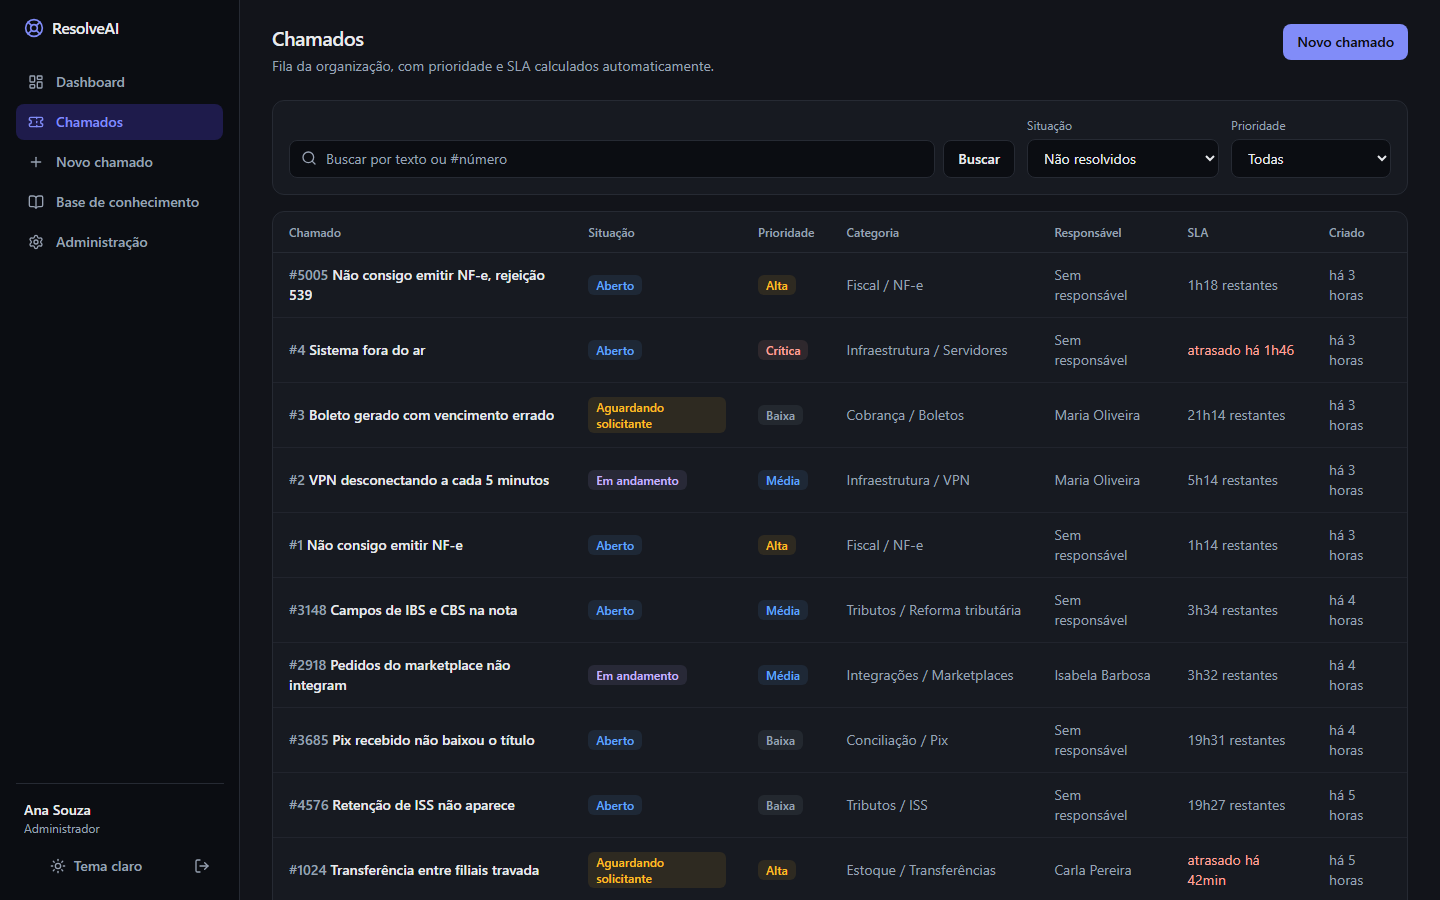
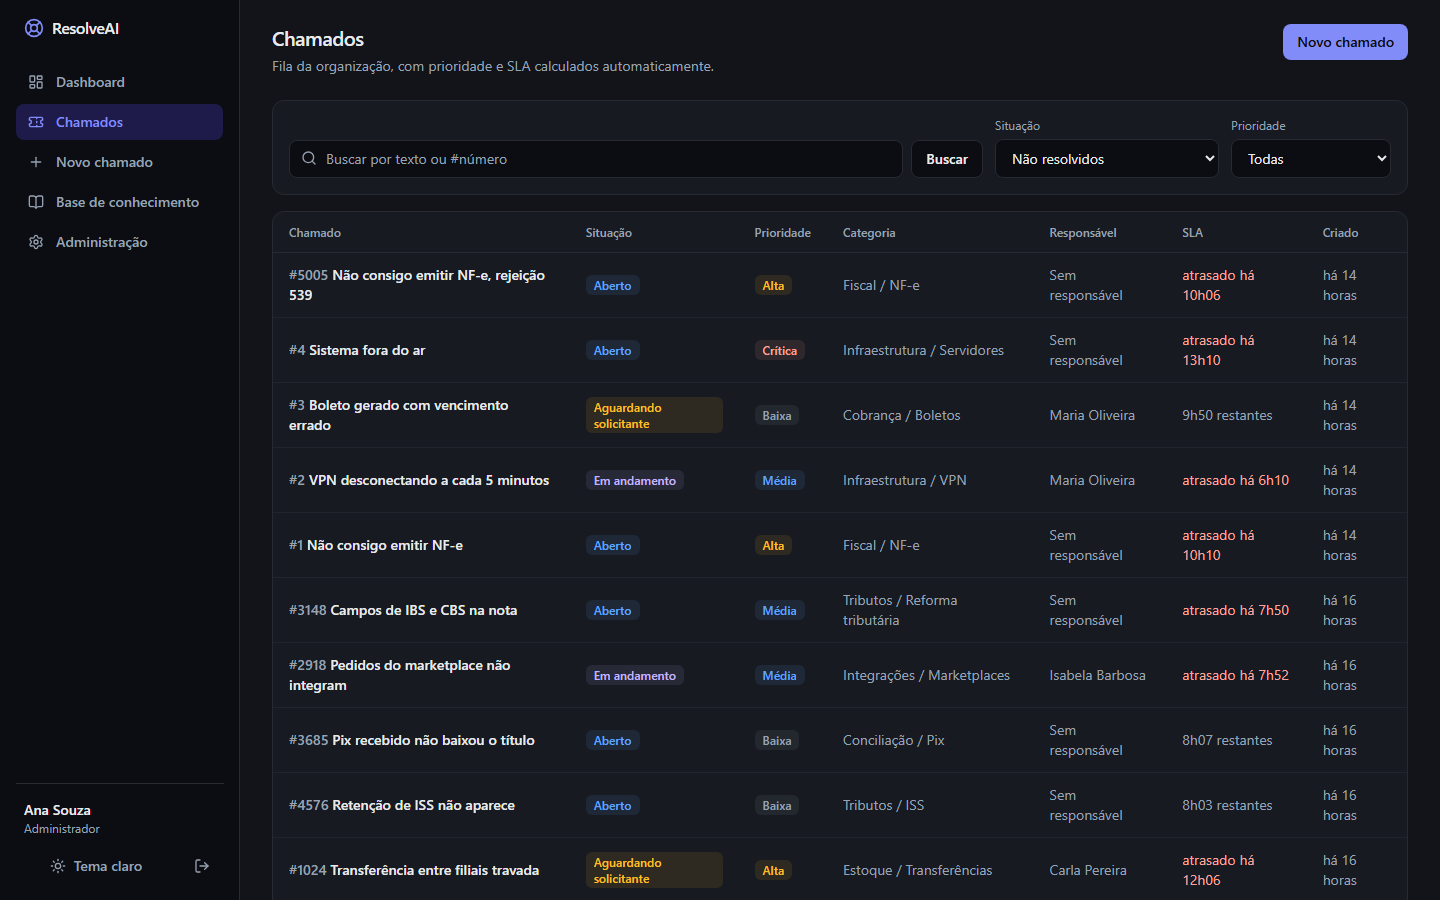
Document the ticket lifecycle and show requester resolution in the README
- New "Ciclo de vida do chamado" section: status diagram, what each status
  means, who can close, requester self-resolution, reopening on reply.
- Two new screenshots: the requester who solved a ticket alone, and the
  team reviewing it. The screenshot script creates that ticket for the
  capture and deletes it afterwards, and now defaults to the same-origin
  app on :5173 (npm run preview is rejected by the API's CORS policy).
- The ticket list screenshots show the wider status filter.
- History values that combine several parts, like an AI analysis
  ("Fiscal · HIGH · 70%"), are now translated part by part, so priorities
  no longer show up in English.

diff --git a/frontend/src/lib/labels.test.ts b/frontend/src/lib/labels.test.ts
@@ -1,0 +1,19 @@
+import { describe, expect, it } from "vitest";
+
+import { translateValue } from "./labels";
+
+describe("translateValue", () => {
+  it("translates statuses and priorities stored in English", () => {
+    expect(translateValue("RESOLVED")).toBe("Resolvido");
+    expect(translateValue("CRITICAL")).toBe("Crítica");
+  });
+
+  it("translates each part of an AI analysis summary", () => {
+    expect(translateValue("Fiscal / NF-e · HIGH · 70%")).toBe("Fiscal / NF-e · Alta · 70%");
+  });
+
+  it("keeps names and empty values as they are", () => {
+    expect(translateValue("Maria Oliveira")).toBe("Maria Oliveira");
+    expect(translateValue(null)).toBeNull();
+  });
+});

diff --git a/frontend/src/lib/labels.ts b/frontend/src/lib/labels.ts
@@ -79,6 +79,13 @@ export function translateEvent(event: keyof typeof EVENT_LABEL): string {
 /** History and automatic changes store enum values; show them in Portuguese. */
 export function translateValue(value: string | null): string | null {
   if (!value) return value;
+  // Composite values, like an AI analysis ("Fiscal · HIGH · 70%"), are translated part by part.
+  if (value.includes(" · ")) {
+    return value
+      .split(" · ")
+      .map((part) => translateValue(part))
+      .join(" · ");
+  }
   const status = TICKET_STATUS[value as keyof typeof TICKET_STATUS];
   if (status) return status.label;
   const priority = TICKET_PRIORITY[value as keyof typeof TICKET_PRIORITY];

diff --git a/README.md b/README.md
@@ -18,13 +18,17 @@ Entre com `admin@resolveai.dev` / `resolveai123` (ou `agent@` para a visão de a
 
 ## Índice
 
-[Demonstração](#demonstração) · [Funcionalidades](#funcionalidades) · [Como a IA funciona](#como-a-ia-funciona) · [Base de conhecimento e RAG](#base-de-conhecimento-e-rag) · [Arquitetura](#arquitetura) · [Stack](#stack) · [Instalação](#instalação) · [Deploy](#deploy) · [Variáveis de ambiente](#variáveis-de-ambiente) · [Testes](#testes) · [API](#api) · [Roadmap](#roadmap)
+[Demonstração](#demonstração) · [Funcionalidades](#funcionalidades) · [Ciclo de vida do chamado](#ciclo-de-vida-do-chamado) · [Como a IA funciona](#como-a-ia-funciona) · [Base de conhecimento e RAG](#base-de-conhecimento-e-rag) · [Arquitetura](#arquitetura) · [Stack](#stack) · [Instalação](#instalação) · [Deploy](#deploy) · [Variáveis de ambiente](#variáveis-de-ambiente) · [Testes](#testes) · [API](#api) · [Roadmap](#roadmap)
 
 ## Demonstração
 
 | Chamados | Detalhe do chamado |
 | --- | --- |
 | ![Lista de chamados](docs/screenshots/chamados.png) | ![Detalhe do chamado](docs/screenshots/chamado-detalhe.png) |
+
+| Solicitante que resolveu sozinho | Equipe revisando a solução |
+| --- | --- |
+| ![Solicitante descreve como resolveu](docs/screenshots/resolvido-pelo-solicitante.png) | ![Equipe revisa a solução do solicitante](docs/screenshots/revisao-da-equipe.png) |
 
 | Base de conhecimento | Administração |
 | --- | --- |
@@ -41,9 +45,7 @@ Tema escuro: [dashboard](docs/screenshots/dashboard-escuro.png) · [chamado](doc
 - Triagem: status, prioridade, categoria, equipe e responsável
 - Busca por texto ou `#número`, filtros por situação, prioridade, categoria, equipe, responsável e data
 - **SLA por prioridade** (24h / 8h / 4h / 1h) com prazo, tempo restante e marcação de estouro
-- **Fechamento pelo solicitante ou pela equipe**, e **automático 5 dias depois de resolvido** se ninguém fechar
-- **Solicitante que resolve sozinho** descreve como fez; a solução fica destacada e filtrável para a equipe revisar
-- **Resposta do solicitante reabre** um chamado resolvido e o devolve à fila
+- **Ciclo de vida completo:** o solicitante pode resolver sozinho (descrevendo como) ou confirmar e fechar, a resposta dele reabre um chamado resolvido, e o sistema fecha 5 dias depois de resolvido ([detalhes](#ciclo-de-vida-do-chamado))
 - Histórico completo de auditoria, incluindo o que a automação fez
 
 **Inteligência artificial**
@@ -67,6 +69,42 @@ Tema escuro: [dashboard](docs/screenshots/dashboard-escuro.png) · [chamado](doc
 - Tempo médio de primeira resposta e de resolução, taxa de resolução
 - Chamados por dia, categoria, prioridade e equipe
 - Métricas da IA: aceitação da categoria e da prioridade, confiança média, artigos mais citados
+
+## Ciclo de vida do chamado
+
+```
+Solicitante abre o chamado
+        │
+        ▼
+     ABERTO ──────────► EM ANDAMENTO ◄────────► AGUARDANDO SOLICITANTE
+        │                    │           resposta do solicitante devolve
+        │                    │
+        ├── equipe resolve ──┤
+        └── solicitante resolve sozinho, descrevendo como
+                             │
+                             ▼
+                        RESOLVIDO ──── resposta do solicitante ────► volta para a fila
+                             │
+      solicitante confirma, equipe fecha ou 5 dias sem ninguém fechar
+                             │
+                             ▼
+                         FECHADO   (definitivo: não aceita alterações nem mensagens)
+```
+
+| Situação | Significa |
+| --- | --- |
+| **Aberto** | Chegou e ninguém começou a trabalhar nele |
+| **Em andamento** | Um atendente está trabalhando nele |
+| **Aguardando solicitante** | O atendente perguntou algo; a resposta do solicitante devolve o chamado para Em andamento |
+| **Resolvido** | Problema solucionado: o SLA para de contar e o chamado fecha sozinho em 5 dias |
+| **Fechado** | Arquivado de vez |
+
+No filtro da lista, **Não resolvidos** reúne Aberto, Em andamento e Aguardando solicitante.
+
+- **Quem fecha:** o solicitante, depois que o chamado foi resolvido; a equipe, em qualquer situação (duplicados, por exemplo); ou o sistema, 5 dias depois de resolvido (`AUTO_CLOSE_RESOLVED_DAYS`).
+- **Solicitante que resolve sozinho** precisa contar como fez. O chamado vai para **Resolvido, e não Fechado**, para a equipe poder revisar: registrar a solução na base de conhecimento, ou reabrir e acompanhar se foi uma gambiarra. A descrição aparece na conversa com a etiqueta *Solução do solicitante*, e a equipe encontra esses chamados no filtro **Resolvidos pelo solicitante**.
+- **Resposta do solicitante reabre** um chamado resolvido: ele volta para Em andamento se tem responsável, ou para Aberto se não tem. Mensagens e notas internas da equipe não reabrem.
+- **Tudo fica no histórico**, inclusive quem resolveu e o fechamento automático, registrado como *Sistema*.
 
 ## Como a IA funciona
 
@@ -135,7 +173,8 @@ backend/
 │   ├── schemas/      # Contratos Pydantic
 │   ├── services/     # triage, ai_classifier, priority, routing, knowledge,
 │   │                 # embeddings, rag, answer_generator, sla, analytics
-│   └── scripts/      # seed e gerador de dados de demonstração
+│   ├── scripts/      # seed e gerador de dados de demonstração
+│   └── jobs.py       # tarefas periódicas (fechamento automático)
 ├── migrations/       # Alembic
 └── tests/            # 212 testes
 frontend/
@@ -242,10 +281,10 @@ Lista completa e comentada em [`backend/.env.example`](backend/.env.example). As
 
 ```bash
 cd backend && pytest --cov      # 212 testes
-cd frontend && npm test         # 20 testes
+cd frontend && npm test         # 23 testes
 ```
 
-Os testes do backend rodam em **SQLite em memória** por padrão e, com `TEST_DATABASE_URL`, no **PostgreSQL com pgvector** (é assim que o CI roda). Eles cobrem autenticação, permissões, isolamento entre organizações, ciclo de vida do chamado, regras de prioridade, classificação, RAG, SLA, dashboard e os provedores de IA (com clientes falsos, sem gastar API).
+Os testes do backend rodam em **SQLite em memória** por padrão e, com `TEST_DATABASE_URL`, no **PostgreSQL com pgvector** (é assim que o CI roda). Eles cobrem autenticação, permissões, isolamento entre organizações, ciclo de vida do chamado (incluindo fechamento automático e reabertura), regras de prioridade, classificação, RAG, SLA, dashboard e os provedores de IA (com clientes falsos, sem gastar API).
 
 O CI ([`.github/workflows/ci.yml`](.github/workflows/ci.yml)) roda lint, testes no PostgreSQL, verificação de que as migrations batem com os modelos, lint + tipos + testes + build do frontend, e o build das imagens Docker.
 
